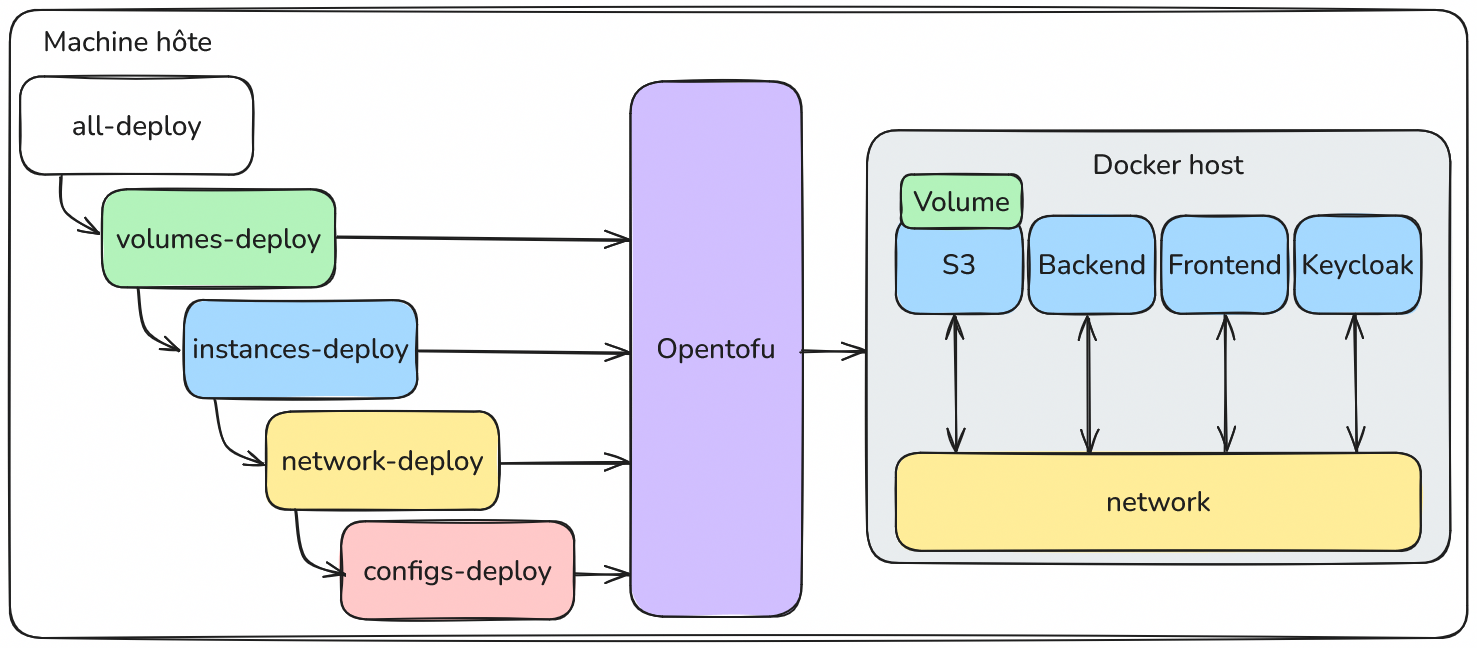
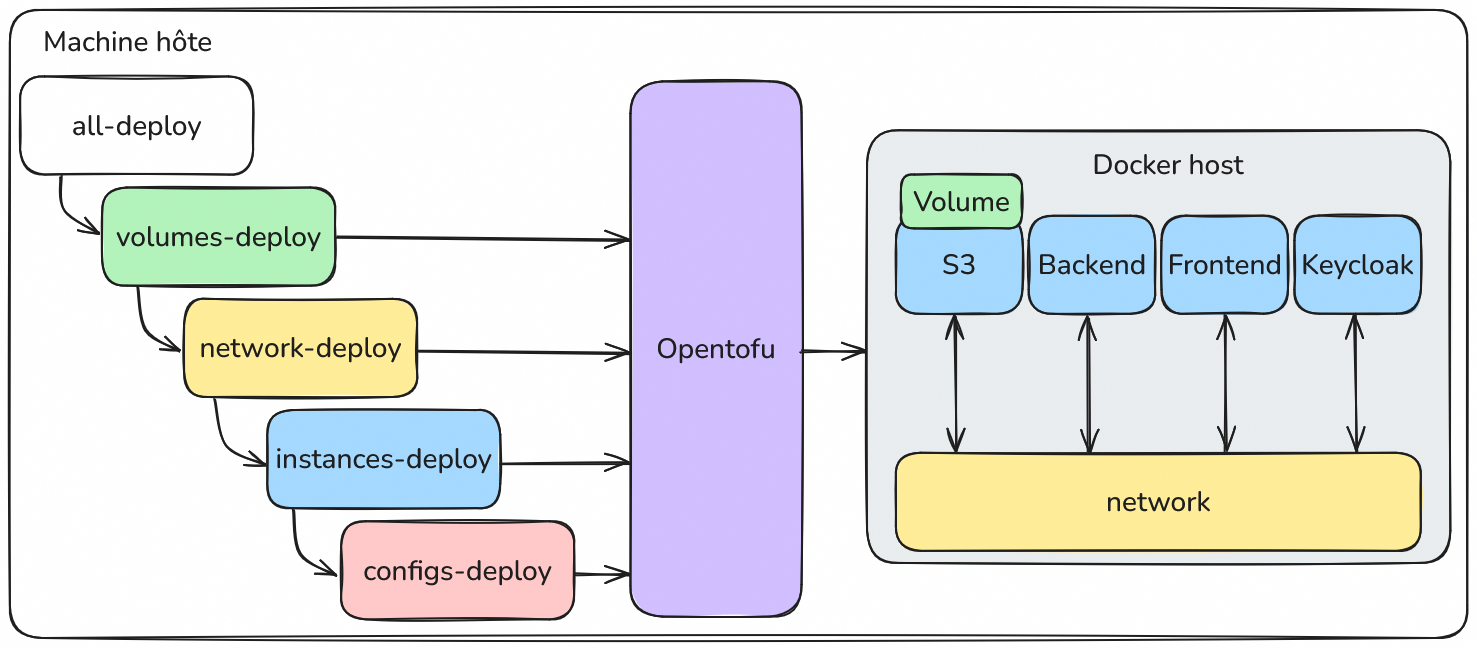
doc: wip report

diff --git a/README.md b/README.md
@@ -1,6 +1,6 @@
 ## 1. **Introduction**
 
-Le projet **SpawnIt** propose une plateforme web permettant de déployer des services complets en un clic, qu’ils soient exécutés localement (via Docker) ou dans le cloud (via AWS EC2). Pour répondre à cette ambition, nous avons fait le choix d’une approche déclarative, en nous appuyant sur OpenTofu, un moteur d’orchestration d’infrastructure issu de Terraform. Cette approche repose sur le principe : *"décrire ce que l’on souhaite obtenir, plutôt que comment y parvenir."*
+Le projet SpawnIt propose une plateforme web permettant de déployer des services complets en un clic, qu’ils soient exécutés localement (via Docker) ou dans le cloud (via AWS EC2). Pour répondre à cette ambition, nous avons fait le choix d’une approche déclarative, en nous appuyant sur OpenTofu, un moteur d’orchestration d’infrastructure issu de Terraform. Cette approche repose sur le principe : *"décrire ce que l’on souhaite obtenir, plutôt que comment y parvenir."*
 
 SpawnIt permet à l’utilisateur de choisir un service (base de données, serveur de jeu, plateforme DevOps, etc.), de personnaliser sa configuration, puis de déclencher son déploiement. En arrière-plan, l’application génère automatiquement les fichiers de configuration nécessaires, les stocke dans un système de fichiers objet (S3), et exécute les commandes OpenTofu pour créer ou détruire l’infrastructure demandée.
 
@@ -49,43 +49,72 @@ Nous avons retenu OpenTofu, un moteur d’infrastructure open-source issu du pro
 
 - Docker : Utilisé pour conteneuriser les composants de l'infrastructure de base de SpawnIt (MinIO, Keycloak, frontend, backend) en local, mais aussi pour déployer les services par les utilisateurs que ce soit localement ou sur des instances cloud.
 
-### 3. **Architecture**
+## Architecture
 
-L’architecture repose sur une séparation des responsabilités entre les couches d’orchestration, de stockage et d’exécution, tout en permettant une composition des services grâce à OpenTofu. Le backend est conteneurisé et encapsule à la fois l’API applicative et l’exécution des commandes `tofu`. Il communique exclusivement avec un backend objet S3, qui joue le rôle de couche de persistance unique : configurations utilisateur, templates de services, états Terraform (`terraform.tfstate`) y sont tous centralisés, ce qui permet un fonctionnement stateless côté serveur.
+L’architecture repose sur un découplage entre la présentation, la logique d’orchestration, et l’infrastructure cible. Elle est conçue de manière modulaire et stateless, avec une exécution conteneurisée, un backend unique pilotant OpenTofu, et un stockage persistant via S3. Le backend agit comme point de convergence, en orchestrant toutes les interactions entre les autres composants.
 
-Lorsqu’un utilisateur configure un service à lancer, le backend génère un fichier `terraform.tfvars.json` structuré selon un schéma rigide (`instance.{...}`), qu’il stocke dans S3 sous le chemin `clients/{clientId}/{serviceId}/terraform.tfvars.json`. Ce fichier est interprété par les modules Terraform (OpenTofu) situés en local, organisés de manière modulaire. Chaque provider cible dispose de son propre module, appelé en fonction du champ `provider`.
+<img src="C:\Users\timot\Documents\HEIG\PLM\infra\doc\img\containers.png" style="zoom:50%;" />
 
-Le code est structuré de façon à isoler complètement la logique liée au réseau (réseaux Docker ou sous-infra cloud) . Chaque client peut avoir son propre réseau logique, préconfiguré avec un backend distinct, mais piloté via la même interface et les mêmes abstractions. Cela permet, entre autres, de planifier, créer ou détruire une topologie réseau indépendamment des services qui y seront rattachés. Le backend génère dynamiquement les fichiers Terraform `.tfvars.json` liés à ces réseaux, et les place dans un espace S3 séparé, ce qui permet de versionner et réutiliser des couches réseau par client ou environnement.
+**Backend**
 
-L’exécution de chaque action (plan, apply, destroy) repose sur l'utilisation d’un répertoire de travail local, reconstruit à chaque appel à partir des fichiers présents sur S3. Cette approche garantit un comportement idempotent et évite les effets de bord dus à des états locaux persistés. Une instance d’exécution `OpenTofuCommand` est instanciée par couple `(clientId, serviceId)`, et encapsule l’environnement d’exécution (répertoire de code, répertoire de données, variables d’environnement spécifiques, etc.). La sortie standard et les erreurs sont capturées en flux, puis transmises au frontend via SSE, permettant un suivi sans polling.
+Le backend est une application Node.js conteneurisée, qui expose une API REST et un canal Server-Sent Events (SSE). Il encapsule également l’exécution locale de commandes OpenTofu. Il ne maintient aucun état en mémoire, tout est lu et écrit depuis S3.
 
-L’architecture permet une composition dynamique à plusieurs niveaux. Du point de vue du frontend, le catalogue des services est défini entièrement dans un fichier JSON qui spécifie, pour chaque item, un template de configuration. Ces templates sont des fichiers `*.template.tfvars.json` versionnés dans S3 et pouvant être personnalisés par l’utilisateur. Cette conception rend le système extensible sans redéploiement, ni changement de code : pour ajouter un service, il suffit d’ajouter un fichier de template et une entrée JSON.
+Chaque exécution de `tofu` est isolée dans un répertoire temporaire reconstruit à la volée à partir des fichiers distants. Cette approche garantit un découplage fort entre l’interface, les configurations utilisateur, et l’infrastructure sous-jacente. Le backend peut donc gérer plusieurs clients, services et environnements sans collisions ni état partagé.
 
-L'application entière est conçue comme un service déclaratif — y compris elle-même. Le backend de SpawnIt peut être lancé comme n’importe quel autre service à l’aide de son propre module Terraform, qui provisionne une machine EC2, injecte un script `user_data` via le provider AWS, et exécute dans cette machine un conteneur Docker contenant l’application. Cette capacité à s’auto-instancier permet de valider que l’architecture déclarative tient même pour l’orchestrateur lui-même. Le code ne fait pas de distinction entre “SpawnIt” et “un service quelconque” ; seul le template de départ diffère.
+**Frontend**
 
-Il y a aussi un découplage entre les étapes de génération de configuration, de provisioning réseau, de déploiement de service, et de supervision. Par exemple, lorsqu’un `tofu plan` est lancé sur un service, le backend commence par valider que le réseau déclaré par ce service est existant et conforme. Cette vérification passe par un `plan` sur le module réseau correspondant. Si le réseau est manquant ou divergent, l’opération est interrompue. Cette étape impose une cohérence topologique sans centraliser ni synchroniser l’état entre composants — tout est dérivé du contenu de S3, qui fait foi.
+Le frontend est une application web statique, déployée dans un conteneur Docker distinct. Il ne contient aucune logique métier et ne connaît ni la structure des fichiers Terraform ni l’infrastructure cible. Il interagit exclusivement avec l’API backend. Cette séparation garantit une portabilité totale et une indépendance vis-à-vis du moteur d’infrastructure. L’interface est dynamique : elle charge le catalogue des services, récupère les templates associés, construit dynamiquement les formulaires, et suit l’exécution des plans en temps réel via SSE.
 
-Enfin, le backend conserve une table mémoire des jobs en cours, identifiés par UUID, ce qui permet une annulation d’un processus en cas de timeout ou d’interruption utilisateur. De même, un service peut être surveillé par une boucle de planification (plan loop) exécutée à intervalle régulier. Ce mécanisme permet d’assurer un niveau minimal de détection de dérive sans infrastructure supplémentaire.
+**OpenTofu (moteur d’infrastructure)**
 
-Le système est donc entièrement modulaire (chaque service, chaque client, chaque couche réseau est isolée), entièrement déclaratif (toutes les actions passent par un fichier `*.tfvars.json` et un appel OpenTofu), et entièrement pilotable via un backend minimaliste et stateless. Cette architecture permet de reproduire des environnements complexes avec peu de dépendances techniques.
+OpenTofu est intégré dans le conteneur backend. Il est déclenché par des sous-processus Node.js. Aucun plugin externe ou wrapper n’est utilisé. L’architecture est pensée pour que le backend soit agnostique du provider Terraform sous-jacent : que l’on déploie sur Docker ou AWS, la logique backend reste la même. Les modules Terraform sont organisés en sous-modules, chacun exposant une interface identique côté variable.
+
+Cette structure permet l’extension vers d’autres providers triviale : il suffit d’ajouter un module avec les bonnes conventions, aucun changement n’est requis côté backend ou frontend.
+
+**S3 (MinIO)**
+
+Le stockage des fichiers est entièrement externalisé sur un backend S3-compatible. Tous les artefacts sont sérialisés et organisés sous la forme :
+
+```
+clients/
+  └── <client_id>/
+        ├── <service_id>/terraform.tfvars.json
+        ├── <service_id>/terraform.tfstate
+        └── network/<provider>/...
+templates/
+  └── *.template.tfvars.json
+```
 
 ## 4. Déploiement
 
-![](doc/img/deploy.png)
+Le déploiement de l’application repose sur des scripts shell qui encapsulent chacun une étape du provisioning. Ces scripts n’exécutent pas des commandes Docker, mais appellent systématiquement OpenTofu avec les fichiers de configuration appropriés. Chaque brique de l’application (volumes, réseau, conteneurs, configuration) est décrite de façon déclarative, dans des modules Terraform versionnés localement.
 
+Le script `all-deploy.sh` est le point d’entrée principal. Il déclenche successivement quatre sous-scripts. Chacun d'eux appelle `tofu init` et `tofu apply` sur le module Terraform correspondant, dans un répertoire de travail isolé, en injectant les variables d’environnement nécessaires (en particulier celles liées à l’hôte ou au provider). Cette structure permet une réutilisabilité complète : chaque étape peut être rejouée indépendamment, ou intégrée dans un pipeline CI.
 
+- Le script `volumes-deploy.sh` crée les volumes Docker persistants nécessaires à certains services (MinIO, bases de données)
+- Le script `network-deploy.sh` crée le réseau Docker auquel tous les conteneurs applicatifs seront connectés.
+- Le script `instances-deploy.sh` déclare les conteneurs de l’application (S3, Backend, Frontend, Keycloak) en utilisant le provider Docker.
+- Enfin, `configs-deploy.sh` applique des modules supplémentaires pour injecter des configurations spécifiques dans les services lancés, par exemple la création de buckets dans MinIO ou l’initialisation d’un realm Keycloak.
+
+Chacune de ces étapes est décrite de façon purement déclarative, dans des fichiers `main.tf` et `terraform.tfvars.json` propres à chaque module. Les modules .tf sont réutilisables : ils utilisent les mêmes interfaces (`var.instance`, `var.provider`, ... que les services déployés par l’interface web.
+
+C’est là l’un des aspects les plus intéressants de cette architecture : le déploiement de SpawnIt lui-même est réalisé en appliquant exactement la même logique que celle utilisée pour déployer n’importe quel service depuis l’interface web. Les modules, les scripts, la structure des variables et le moteur d’exécution sont identiques. En d’autres termes, l’application se déploie avec les mêmes mécanismes qu’elle met à disposition de ses utilisateurs.
+
+<img src="doc/img/deploy.png" style="zoom:50%;" />
 
 
 
 ## 5. Workflow
 
-Le fonctionnement de SpawnIt utilise un enchaînement d’étapes gérées par le backend, avec une séparation entre les phases de génération de configuration, de provisioning, et de supervision. L’ensemble du système est gérée via une API ou chaque endpoint déclenche des actions Terraform en local, sur la base de fichiers centralisés dans S3.
+SpawnIt utilise un enchaînement d’étapes gérées par le backend, avec une séparation entre les phases de génération de configuration, de provisioning, et de supervision. L’ensemble du système est gérée via une API ou chaque endpoint déclenche des actions Terraform en local, sur la base de fichiers centralisés dans S3.
 
 ### 5.1 Génération de configuration et persistance dans S3
 
-Tous les services deployables sont basés sur des templates JSON prééxistants. Lorsqu’un utilisateur choisit un service à déployer et renseigne ses paramètres dans l’interface, ces informations sont envoyées au backend. Le backend les encapsule dans une structure standardisée conforme au schéma d’entrée des modules Terraform. Il ajoute dynamiquement des valeurs et sérialise l’ensemble dans un fichier `terraform.tfvars.json`. Ce fichier est ensuite stocké sur S3 dans un chemin déterministe de la forme `clients/{clientId}/{serviceId}/terraform.tfvars.json`.
+Tous les services deployables sont basés sur des templates JSON prééxistants. Lorsqu’un utilisateur choisit un service à déployer et renseigne ses paramètres dans l’interface, ces informations sont envoyées au backend. Le backend les encapsule dans une structure standardisée conforme au schéma d’entrée des modules Terraform. Il ajoute dynamiquement des valeurs et sérialise l’ensemble dans un fichier `terraform.tfvars.json`. Ce fichier est ensuite stocké sur S3.
 
 Cette étape ne déclenche aucun déploiement. Elle sert uniquement à constituer une base déclarative persistée, qui pourra ensuite être appliquée ou modifiée. Le backend ne conserve aucun état local. Toutes les informations sont reconstruites à partir des fichiers distants, ce qui permet de redémarrer le backend à tout moment sans perte d’état.
+
+<img src="C:\Users\timot\Documents\HEIG\PLM\infra\doc\img\config.png" style="zoom:50%;" />
 
 ### 5.2 Préparation du répertoire de travail
 
@@ -93,13 +122,11 @@ Pour chaque opération Terraform (`plan`, `apply`, `destroy`), le backend crée 
 
 Avant chaque exécution, cette instance appelle `tofu init` avec les bons paramètres backend (bucket, chemin du fichier d’état, région, endpoint MinIO ou AWS, etc.), en injectant ces informations via des variables d’environnement. Cette initialisation est faite à froid pour chaque exécution, sauf si elle a déjà été faite dans le contexte courant. Elle est donc idempotente, mais évite les recharges inutiles.
 
-### 5.3 Validation du réseau
+<img src="C:\Users\timot\Documents\HEIG\PLM\infra\doc\img\workdir.png" style="zoom:50%;" />
 
-Avant de lancer un plan sur un service, le backend vérifie que la couche réseau associée est existante et conforme. Il le fait en lançant un plan sur le module réseau du provider spécifié (`network/local` ou `network/aws`) avec son propre fichier de variables. Si le plan indique une divergence, ou si le fichier de configuration est manquant, l’opération principale est bloquée.
+### 5.3 Validation, planification, application et destruction
 
-Cette validation réseau est déduite dynamiquement à partir des paramètres du service (`provider` et `network_name`), ce qui permet à deux services d’un même client de partager une même couche réseau tout en étant déployés indépendamment.
-
-### 5.4 Planification, application et destruction
+Avant de lancer un plan sur un service, le backend vérifie que la couche réseau associée est existante et conforme. Il le fait en lançant un plan sur le module réseau du provider spécifié (`network/local` ou `network/aws`) avec son propre fichier de variables. Si le plan indique une divergence, ou si le fichier de configuration est manquant, l’opération principale est bloquée. Cette validation réseau est déduite dynamiquement à partir des paramètres du service (`provider` et `network_name`), ce qui permet à deux services d’un même client de partager une même couche réseau tout en étant déployés indépendamment.
 
 Une fois le répertoire de travail prêt et le réseau validé, le backend lance la commande `tofu plan`. La sortie de cette commande est capturée en flux et transmise au client via SSE. Le backend analyse également cette sortie pour en déduire un statut formel : "compliant" (aucune modification à prévoir), "drifted" (modifications planifiées), ou "error" (exécution échouée).
 
@@ -107,11 +134,11 @@ Si l’utilisateur confirme le plan, la commande `tofu apply` est déclenchée. 
 
 La destruction (`tofu destroy`) suit le même schéma et est toujours précédée d’un plan implicite pour vérifier l’état du service à supprimer. Le backend ne fait pas de nettoyage automatique des répertoires de travail, mais ceux-ci peuvent être supprimés sans conséquence, puisque l’état est toujours sauvegardé dans S3.
 
-### 5.5 Supervision continue
+<img src="C:\Users\timot\Documents\HEIG\PLM\infra\doc\img\plan.png" style="zoom:50%;" />
+
+### 5.5 Supervision et gestion des jobs
 
 SpawnIt utilise une boucle de planification continue sur tous les services. Un `setInterval` exécute toutes les 10 secondes un `plan` sur le service ciblé. Le résultat est envoyé aux clients connectés. Cette fonctionnalité est utile pour détecter des dérives manuelles (modifications de conteneurs ou d’instances en dehors de SpawnIt), sans avoir besoin d’un agent sur la machine cible.
-
-### 5.6 Annulation et gestion des jobs
 
 Chaque exécution de `apply`, `destroy` ou `plan` est associée à un UUID et conservée dans une table en mémoire. Cela permet à l’utilisateur d’annuler un job en cours via une requête dédiée, ce qui envoie un `SIGTERM` au processus sous-jacent. En cas de plantage du backend, cette table est perdue, mais comme les processus sont exécutés localement et encapsulés, les effets secondaires sont limités. Les jobs terminés sont automatiquement retirés de la table.
 
